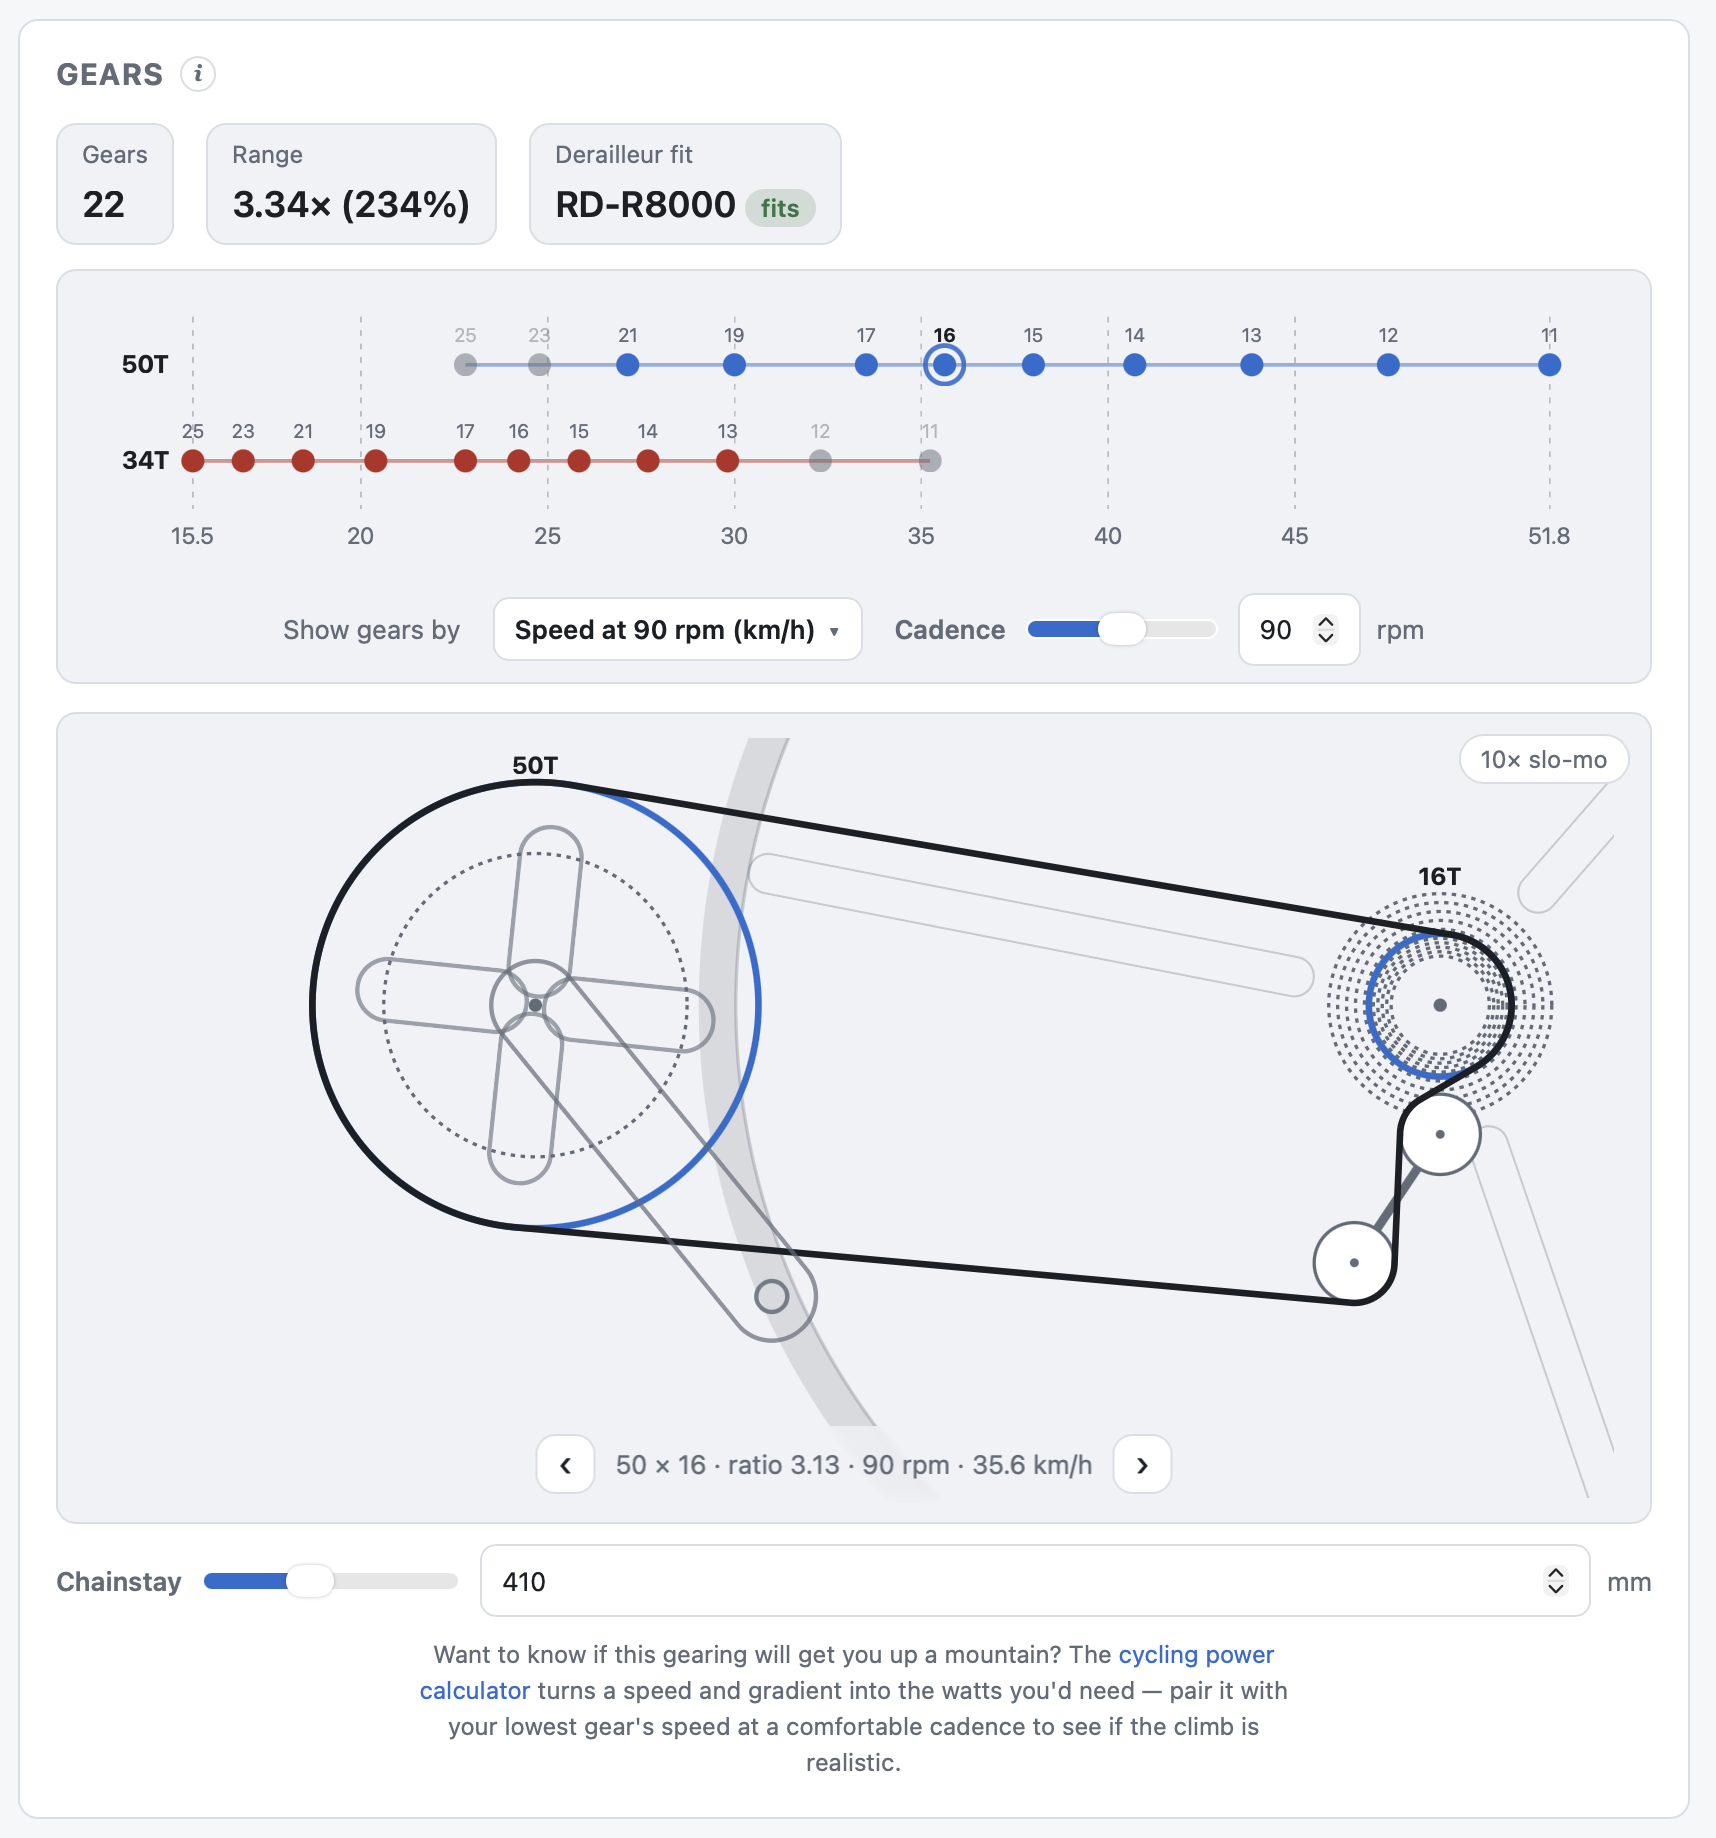
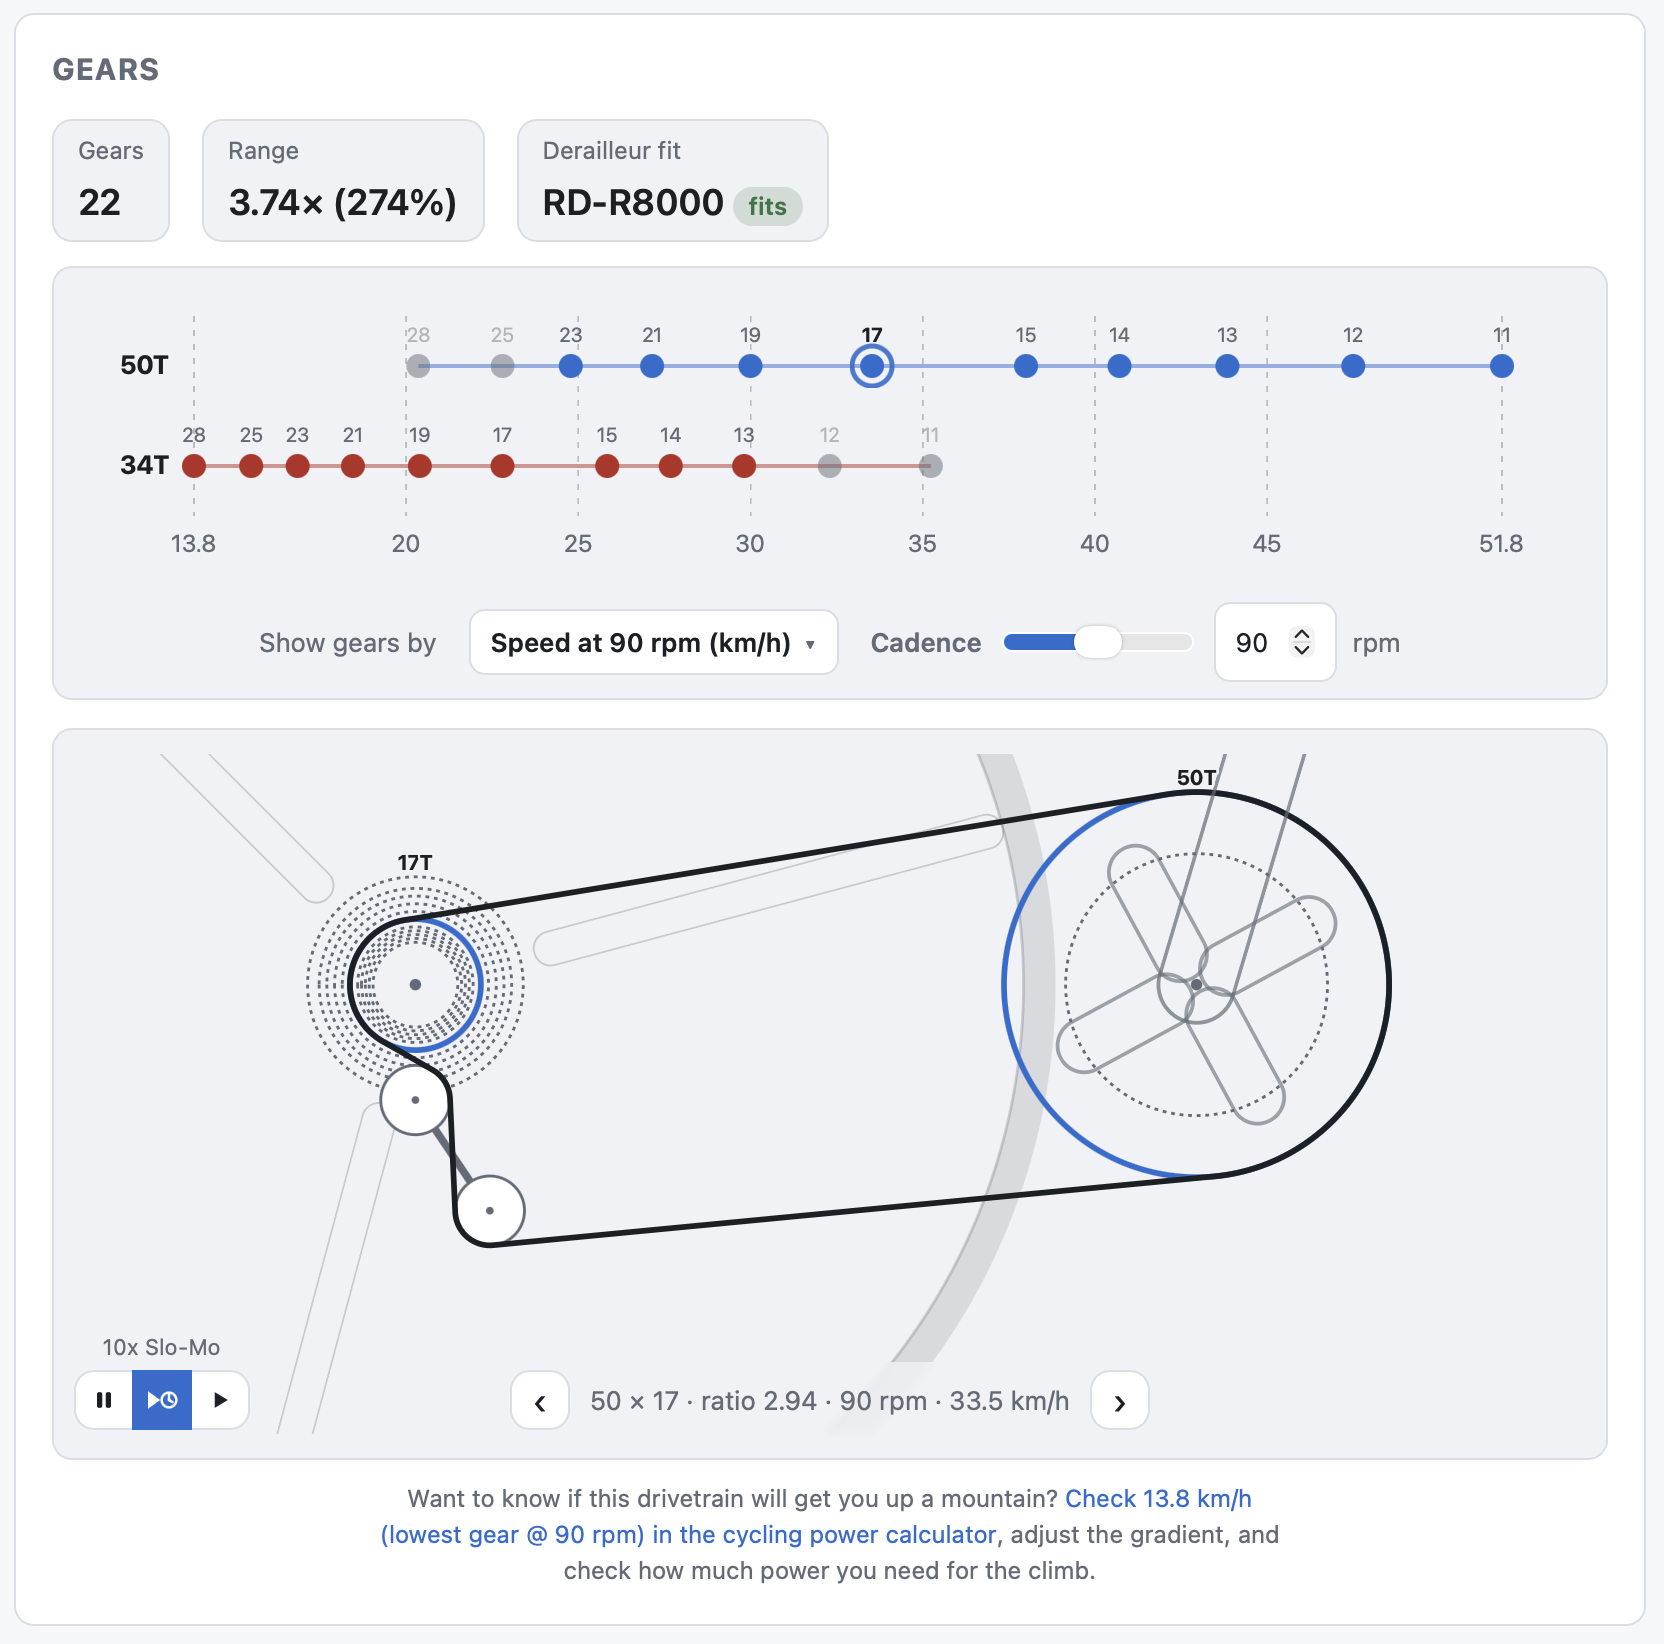
Improve README and component database page (#18)
* Move maintainer guidance out of README

* Update calculator overview and screenshots

* Rename component database page and URL

---------

diff --git a/src/useHashRoute.ts b/src/useHashRoute.ts
@@ -3,6 +3,14 @@ import { isEmbedded, notifyConfigChanged } from "./embed";
 import routes from "./routes.json";
 
 const NAVIGATION = "bikecalc:navigate";
+const routeSlugs = (route: (typeof routes)[number]) => [route.slug, ...route.legacySlugs];
+const matchPath = (path: string) => {
+  for (const route of routes) {
+    const slug = routeSlugs(route).find(candidate => path.endsWith(`/${candidate}/`) || path.endsWith(`/${candidate}`));
+    if (slug) return { route, slug };
+  }
+  return null;
+};
 const legacyRoute = () => {
   const match = window.location.hash.match(/^#\/?([^?]+)(?:\?(.*))?$/);
   return match && routes.some(r => r.id === match[1]) ? match : null;
@@ -11,8 +19,8 @@ const legacyRoute = () => {
 /** Infer the installation directory, including when opened on a nested page. */
 export function getBasePath(): string {
   const path = window.location.pathname.replace(/index\.html$/, "");
-  const page = routes.find(r => path.endsWith(`/${r.slug}/`) || path.endsWith(`/${r.slug}`));
-  if (page) return path.slice(0, path.lastIndexOf(`/${page.slug}`) + 1);
+  const match = matchPath(path);
+  if (match) return path.slice(0, path.lastIndexOf(`/${match.slug}`) + 1);
   return path.endsWith("/") ? path : path + "/";
 }
 
@@ -26,7 +34,7 @@ function currentRoute(): string {
   const legacy = legacyRoute();
   if (legacy) return legacy[1];
   const path = window.location.pathname.replace(/\/index\.html$/, "/").replace(/\/$/, "");
-  return routes.find(r => path.endsWith(`/${r.slug}`))?.id ?? routes[0].id;
+  return matchPath(path)?.route.id ?? routes[0].id;
 }
 
 /** Retain the old function names for calculator consumers and legacy links. */

diff --git a/src/routing.test.tsx b/src/routing.test.tsx
@@ -21,6 +21,12 @@ it("migrates legacy links and their encoded settings without adding history", ()
   expect(history.length).toBe(length);
 });
 
+it("normalizes legacy directory URLs to their canonical slug", () => {
+  history.replaceState(null, "", "/bikeworkshopcalc/bicycle-component-compatibility/");
+  normalizeRoute();
+  expect(location.pathname).toBe("/bikeworkshopcalc/bicycle-component-database/");
+});
+
 it("routes navigation and popstate, including a same-page example", () => {
   const { result } = renderHook(() => ({ route: useHashRoute("drivetrain")[0], key: useHashConfigKey() }));
   act(() => navigateTo("wheel-building", { hub: "A~B" }));
@@ -62,7 +68,7 @@ it("sets distinct metadata and excludes settings from canonical URLs", () => {
 });
 
 it("follows configured links within the app without a document navigation", () => {
-  history.replaceState(null, "", "/bikeworkshopcalc/bicycle-component-compatibility/");
+  history.replaceState(null, "", "/bikeworkshopcalc/bicycle-component-database/");
   const { result } = renderHook(() => ({ route: useHashRoute("drivetrain")[0], key: useHashConfigKey() }));
   const link = document.createElement("a");
   link.href = routeHref("drivetrain") + "?cassette=Shimano%20CS-HG50&cr=50%2C34";

diff --git a/src/lib/derailleur.ts b/src/lib/derailleur.ts
@@ -1,5 +1,5 @@
 // Derailleur compatibility: capacity check plus a reference chart of systems.
-// See docs/calculators/derailleur-compatibility.md.
+// See docs/calculators/components.md.
 //
 // The derailleur database itself lives in data/derailleurs.json so entries can be
 // added or edited without touching code — see src/data/README.md.

diff --git a/README.md b/README.md
@@ -3,24 +3,29 @@
 I am volunteering in a community bike workshop. We repair donated bikes for refugees, and teach people how to fix bikes. Working on bikes often involves small calculations, for which there are many many great web calculators out there. So, why build another one?
 
 - I never remember which one I liked best for which task, so I figured I would like to have a collection of different useful calculators all in one place.
-- I wanted to build something which is very visual to let us use this as a tool to teach people how bike components work. So, the drivetrain calculator will actually show an animation of what the drivetrain would look like, and how shifting between the different gears works. The wheel building calculator can show a 3d visualization of the wheel with an animation of which order to put in the spokes when lacing the wheels.
+- I wanted to build something which is very visual to let us use this as a tool to teach people how bikes and bike components work. For instance:
+  - The drivetrain calculator shows an animation of what the drivetrain would look like and how shifting between the different gears works.
+  - The wheel building calculator shows a 3D visualization of the wheel with an animation of the order in which to insert the spokes when lacing the wheel.
+  - The frame size calculator shows how a person with the specified body dimensions would sit on a frame with the specified dimensions.
 - In our bike workshop, we often have old donated bikes with a very random mix of components - or you may try to find replacements from a box of used parts - and you don't know if components are actually compatible. So one goal of this calculator is to help you answer such questions. The drivetrain calculator lets you specify components (derailleurs, shifters and cassettes) and will validate them against known specs for the parts (gear counts, derailleur pull ratio, max cog size, capacity), to give you a judgement if they are expected to work together or not.
 
 You can try the calculator live on the [Rückenwind web site](https://rueckenwind.berlin/bikeworkshopcalc/).
 
 ![Drivetrain visualization](docs/images/drivetrain.png)
 ![Wheelbuilding visualization](docs/images/wheelbuilding.png)
+![Frame size visualization](docs/images/framesize.png)
 
 ## Calculators
 
 | # | Calculator | What it answers | Spec |
 |---|-----------|-----------------|------|
-| 1 | Drivetrain | Gear ratios, speed at cadence, gear inches/development (cassette, single speed, or geared hub), chain length, chain wear | [drivetrain.md](docs/calculators/drivetrain.md) |
-| 2 | Wheel building | Spoke lengths for a given hub + rim + lacing, plus spoke tension converter | [wheel-building.md](docs/calculators/wheel-building.md) |
-| 3 | Frame size | Frame size / saddle height / crank length from inseam or body height | [frame-size.md](docs/calculators/frame-size.md) |
-| 4 | Tire | Convert tire size formats; recommend pressure | [tire.md](docs/calculators/tire.md) |
-| 5 | Cycling power | Watts needed for a speed/gradient, speed from watts, and work / food energy over a ride | [power.md](docs/calculators/power.md) |
-| 6 | Thread direction | Reference: which parts are left-hand threaded, and which way to turn to loosen/tighten | [thread-direction.md](docs/calculators/thread-direction.md) |
+| 1 | [Drivetrain](https://rueckenwind.berlin/bikeworkshopcalc/gear-ratio-chain-length-calculator/) | Gear ratios, speed at cadence, gear inches/development (cassette, single speed, or geared hub), chain length, chain wear | [drivetrain.md](docs/calculators/drivetrain.md) |
+| 2 | [Wheel building](https://rueckenwind.berlin/bikeworkshopcalc/spoke-length-calculator/) | Spoke lengths for a given hub + rim + lacing, plus spoke tension converter | [wheel-building.md](docs/calculators/wheel-building.md) |
+| 3 | [Frame size](https://rueckenwind.berlin/bikeworkshopcalc/bike-frame-size-calculator/) | Frame size / saddle height / crank length from inseam or body height | [frame-size.md](docs/calculators/frame-size.md) |
+| 4 | [Tire](https://rueckenwind.berlin/bikeworkshopcalc/tire-pressure-calculator/) | Convert tire size formats; recommend pressure | [tire.md](docs/calculators/tire.md) |
+| 5 | [Components](https://rueckenwind.berlin/bikeworkshopcalc/bicycle-component-database/) | Look up specifications for derailleurs, wheel hubs, internal gear hubs, gearboxes, and cassettes used by the other calculators | [components.md](docs/calculators/components.md) |
+| 6 | [Cycling power](https://rueckenwind.berlin/bikeworkshopcalc/cycling-power-calculator/) | Watts needed for a speed/gradient, speed from watts, and work / food energy over a ride | [power.md](docs/calculators/power.md) |
+| 7 | [Thread direction](https://rueckenwind.berlin/bikeworkshopcalc/bicycle-thread-direction/) | Reference: which parts are left-hand threaded, and which way to turn to loosen/tighten | [thread-direction.md](docs/calculators/thread-direction.md) |
 
 ## Documentation
 
@@ -88,44 +93,3 @@ Feedback and suggestions are welcome. So are contributions/pull requests - in pa
 ## License
 
 Released under the [MIT License](LICENSE).
-
-## Calculator URLs and SEO
-
-Each calculator now has a directory URL under `/bikeworkshopcalc/`:
-
-- `gear-ratio-chain-length-calculator/`
-- `spoke-length-calculator/`
-- `bike-frame-size-calculator/`
-- `tire-pressure-calculator/`
-- `bicycle-component-compatibility/`
-- `cycling-power-calculator/`
-- `bicycle-thread-direction/`
-
-`src/routes.json` defines paths and metadata. `npm run build` generates an
-`index.html` in each directory, containing a title, description, canonical URL,
-short introduction and links usable before JavaScript loads. The interactive
-calculators still run client-side; this is not full server-side rendering.
-The root entry selects the drivetrain page. Legacy `#/drivetrain?...` links
-migrate client-side using `replaceState`, retaining their configuration. Shared
-settings now use ordinary query parameters; canonical URLs omit those settings.
-The old iframe bridge retains hash navigation when explicitly embedded with
-`?embed=fill` (or `?embed=auto` for auto-height). Ordinary preview iframes use
-the new path URLs.
-
-Upload **all of `dist/`**, including the seven page directories and `sitemap.xml`,
-to the dedicated calculator directory alongside WordPress. No WordPress plugin
-or SPA rewrite is needed: the server only needs to serve directory index files
-and let existing files/directories bypass WordPress (the normal WordPress setup).
-Do not overwrite WordPress's root files or `.htaccess`. The deployment script
-uploads these entry points too; verify its host and remote directory before use.
-`DEPLOY_URL` is required and specifies the public page URL used for live
-verification; it is independent of the SFTP host and remote directory.
-
-Production canonical URLs and the sitemap target
-`https://rueckenwind.berlin/bikeworkshopcalc/` (configured in
-`scripts/build-pages.mjs` and `src/useHashRoute.ts`). If moving domains, update
-both. After deployment, submit
-`https://rueckenwind.berlin/bikeworkshopcalc/sitemap.xml` in Google Search Console.
-The sitemap intentionally excludes configurable query-string variants.
-
-UI text and documentation use US English spelling. Preserve official product names, source titles, URLs, and existing internal identifiers.

diff --git a/docs/calculators/components.md b/docs/calculators/components.md
@@ -1,7 +1,35 @@
-# Derailleur
+# Components
 
-Two things: a **searchable derailleur database** (look up the specs of a given
-derailleur) and a **compatibility reference** chart of actuation families.
+The Components page is a searchable database of parts used by the other
+calculators:
+
+- Rear derailleurs, including cage, capacity, sprocket, actuation, pull-ratio,
+  and model-year data.
+- Wheel hubs, including type, spacing, spoke counts, flange geometry, and spoke
+  hole diameter.
+- Internal gear hubs and bottom-bracket gearboxes, including gear ratios and
+  whether they can be combined with a derailleur drivetrain.
+- Cassettes, including sprockets, speed count, freehub body, spacing standard,
+  special drivetrain family, and weight.
+
+Users can search across all categories or filter by component type and brand.
+Additional filters adapt to the selected category. Selecting a row shows its
+full specifications, source, and a link to configure it in the relevant
+calculator.
+
+The page also allows users to propose a new component or changes to an existing
+entry. A proposal opens an email draft for review; it does not alter the live
+database directly.
+
+The underlying JSON files and their field definitions are documented in
+[`src/data/README.md`](../../src/data/README.md). Reference values are
+approximate and sourced; verify critical measurements against the manufacturer
+or the physical component.
+
+## Derailleurs and compatibility
+
+The derailleur data supports both the searchable component database and
+compatibility checks based on actuation families.
 
 The **capacity / max-sprocket fit check** lives in the
 [drivetrain calculator](drivetrain.md) instead — that's where you have a
@@ -9,11 +37,10 @@ cassette and crankset to check against. There you can pick a derailleur from the
 database and it tells you whether your largest cog and total capacity are within
 its limits.
 
-> **All the spec data is approximate / sourced** (and actuation ratios are
-> marketing-obscured). Each row cites a source; verify against the manufacturer
-> before relying on it. The database is extendable — add rows to the JSON.
+Actuation ratios are often disputed or obscured by marketing. Each row cites a
+source; verify against the manufacturer before relying on it.
 
-## Part 1 — Derailleur database
+### Derailleur database
 
 A searchable, filterable table of ~550 rear derailleurs. Search by brand /
 model / series / discipline / speeds, and narrow with the **brand / type /
@@ -43,7 +70,7 @@ or shifter-specific pull (Microshift Advent/Advent X/Sword, Box Prime 9, TRP,
 Ingrid, closed wireless systems like WheelTop/L-TWOO eRX) — and genuinely
 ambiguous cases — are left "unknown" rather than guessed.
 
-## Part 2 — Compatibility reference
+### Compatibility reference
 
 A browsable table of rear derailleur (and shifter) families with:
 

diff --git a/AGENTS.md b/AGENTS.md
@@ -1,0 +1,26 @@
+# Agent instructions
+
+## Language
+
+- Use US English spelling in UI text and documentation.
+- Preserve official product names, source titles, URLs, and existing internal
+  identifiers.
+
+## Calculator URLs and SEO
+
+- Treat `src/routes.json` as the source of truth for calculator paths and
+  metadata.
+- Preserve the static entry pages and `sitemap.xml` generated by
+  `scripts/build-pages.mjs`. The calculators remain client-side applications;
+  these entry pages make their content and links available before JavaScript
+  loads.
+- Preserve migration of legacy `#/calculator?...` links, including their
+  configuration. Ordinary pages use path-based URLs and query parameters;
+  embedded `?embed=fill` and `?embed=auto` views retain hash navigation.
+- Keep configurable query-string variants out of canonical URLs and the
+  sitemap.
+- The production URL is configured in both `scripts/build-pages.mjs` and
+  `src/useHashRoute.ts`; update both if the domain or deployment path changes.
+- Deploy all of `dist/`, including calculator directories and `sitemap.xml`, to
+  the dedicated calculator directory. Do not overwrite the WordPress root or
+  `.htaccess`.

diff --git a/docs/calculators/drivetrain.md b/docs/calculators/drivetrain.md
@@ -35,7 +35,7 @@ worn chain.
 - **For chain length**: chainstay length (mm) OR the "big-big" measurement,
   plus largest chainring and largest cog.
 - **Rear derailleur** (cassette mode, optional): pick one from the
-  [derailleur database](derailleur-compatibility.md); the tool checks that your
+  [component database](components.md); the tool checks that your
   largest cog ≤ its max sprocket and required capacity ≤ its rated capacity, and
   shows its actuation/pull ratio. Both checks are **tri-state** — OK / caution /
   over — since a little past spec usually still works: up to **+4T** over is a
